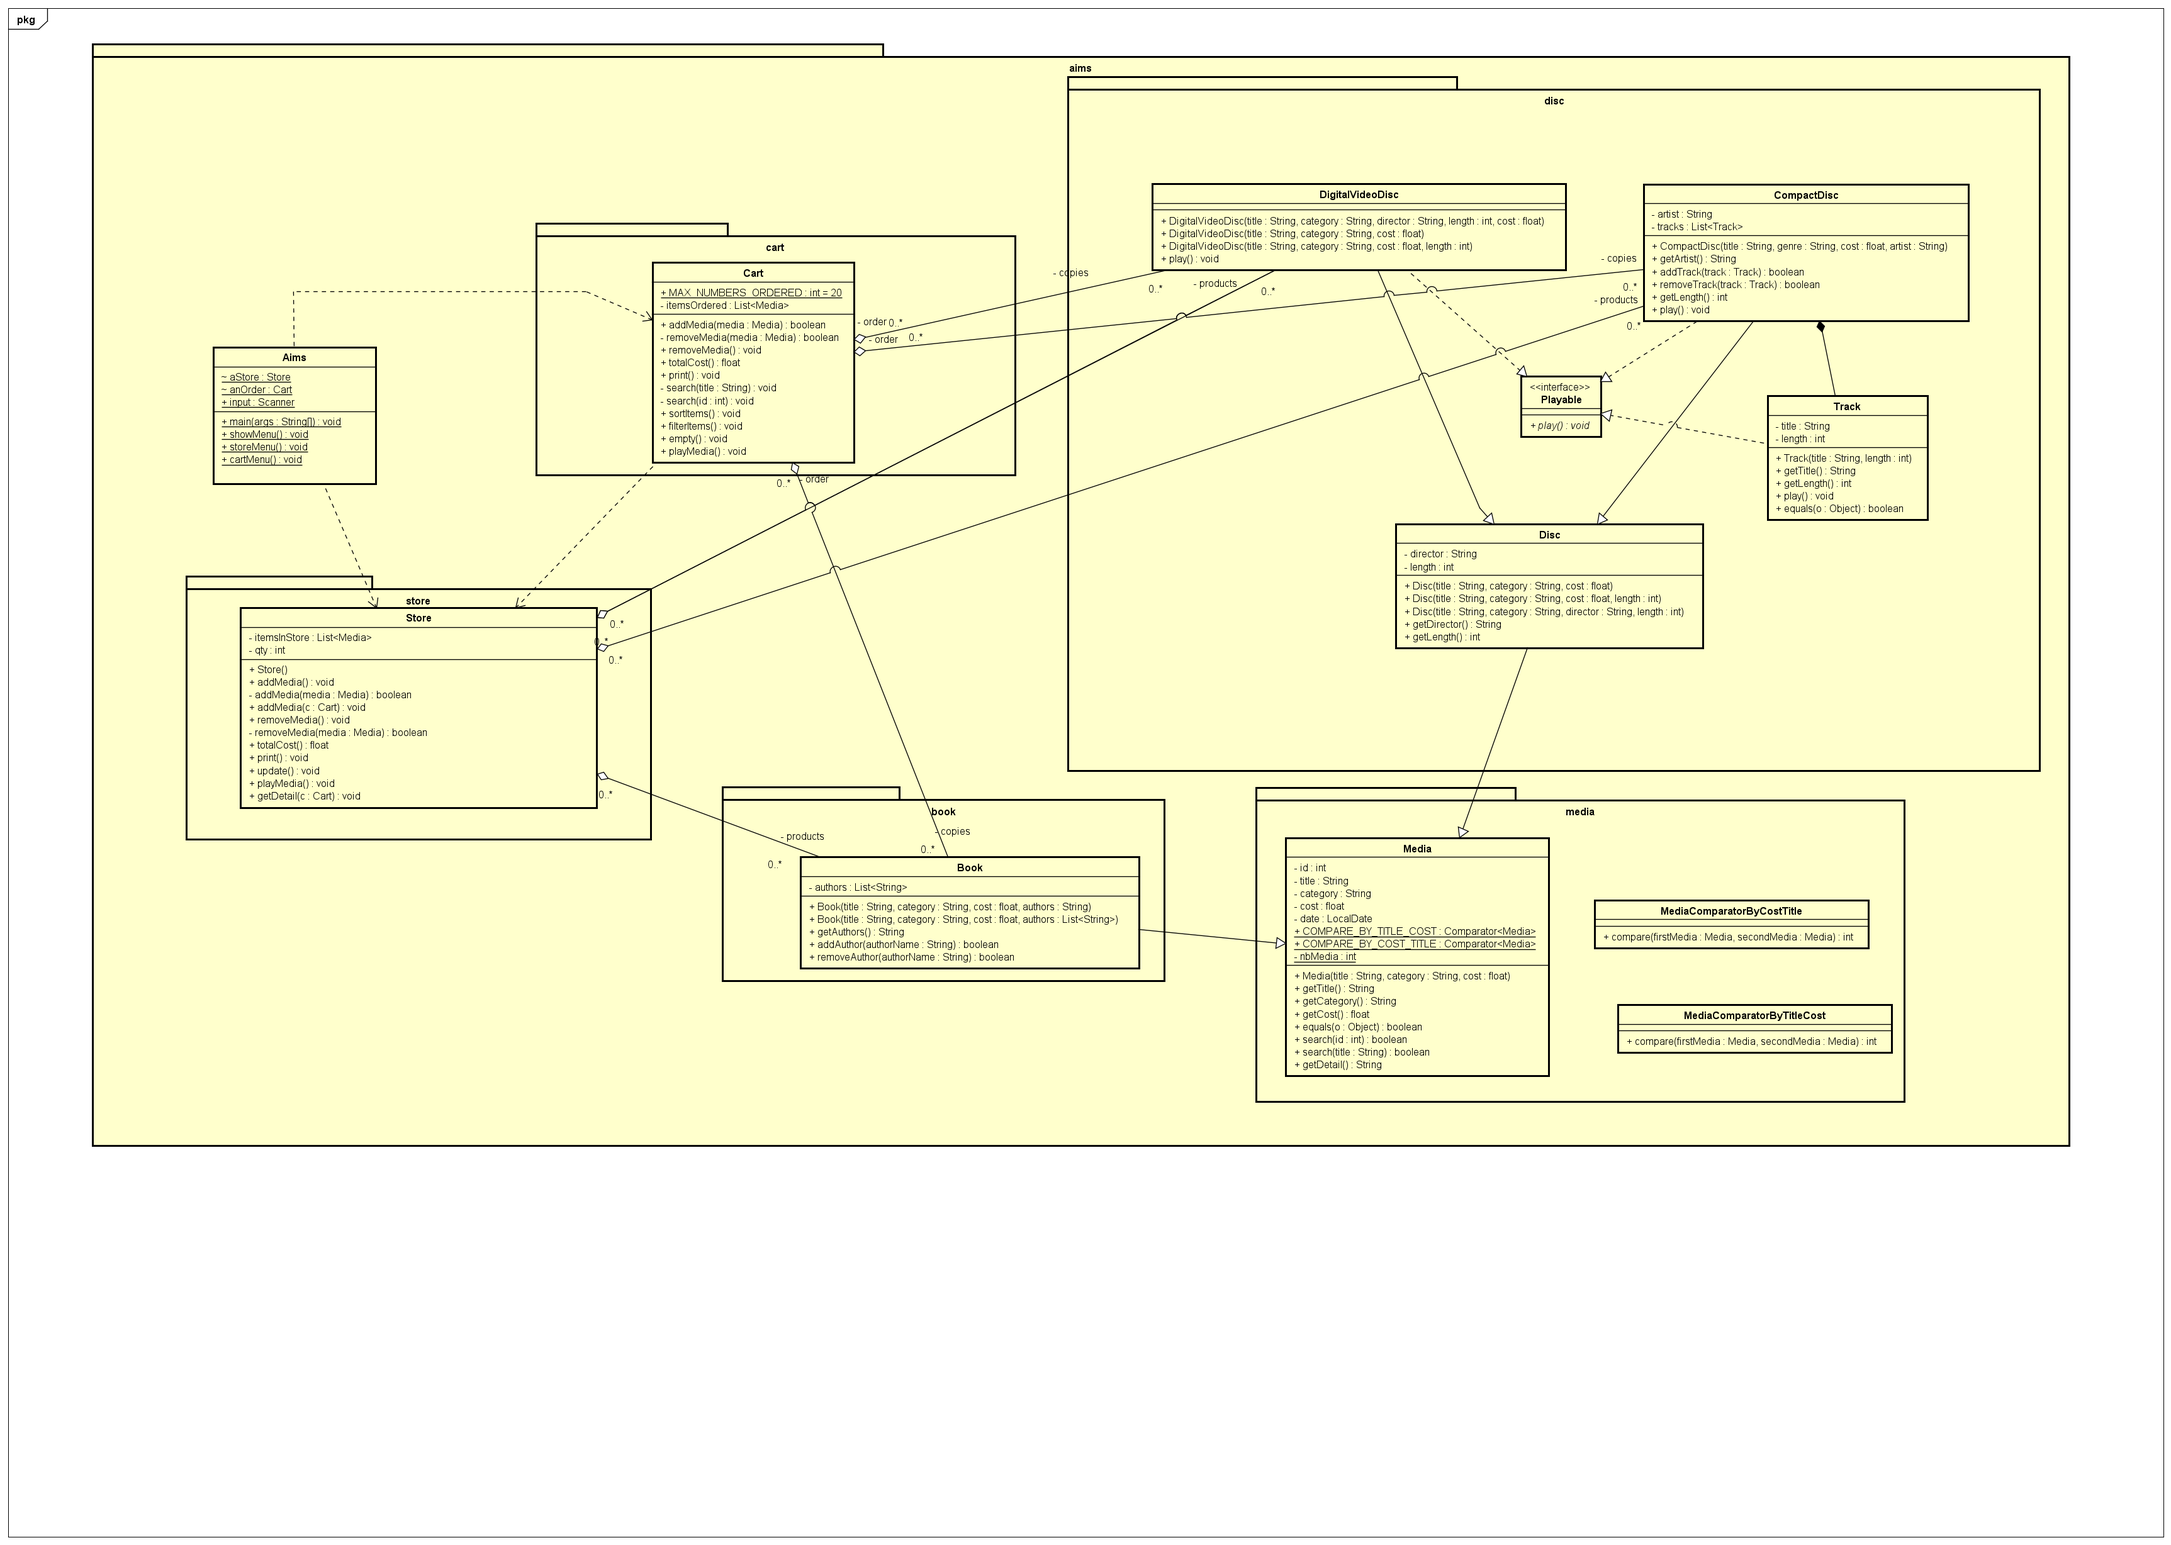
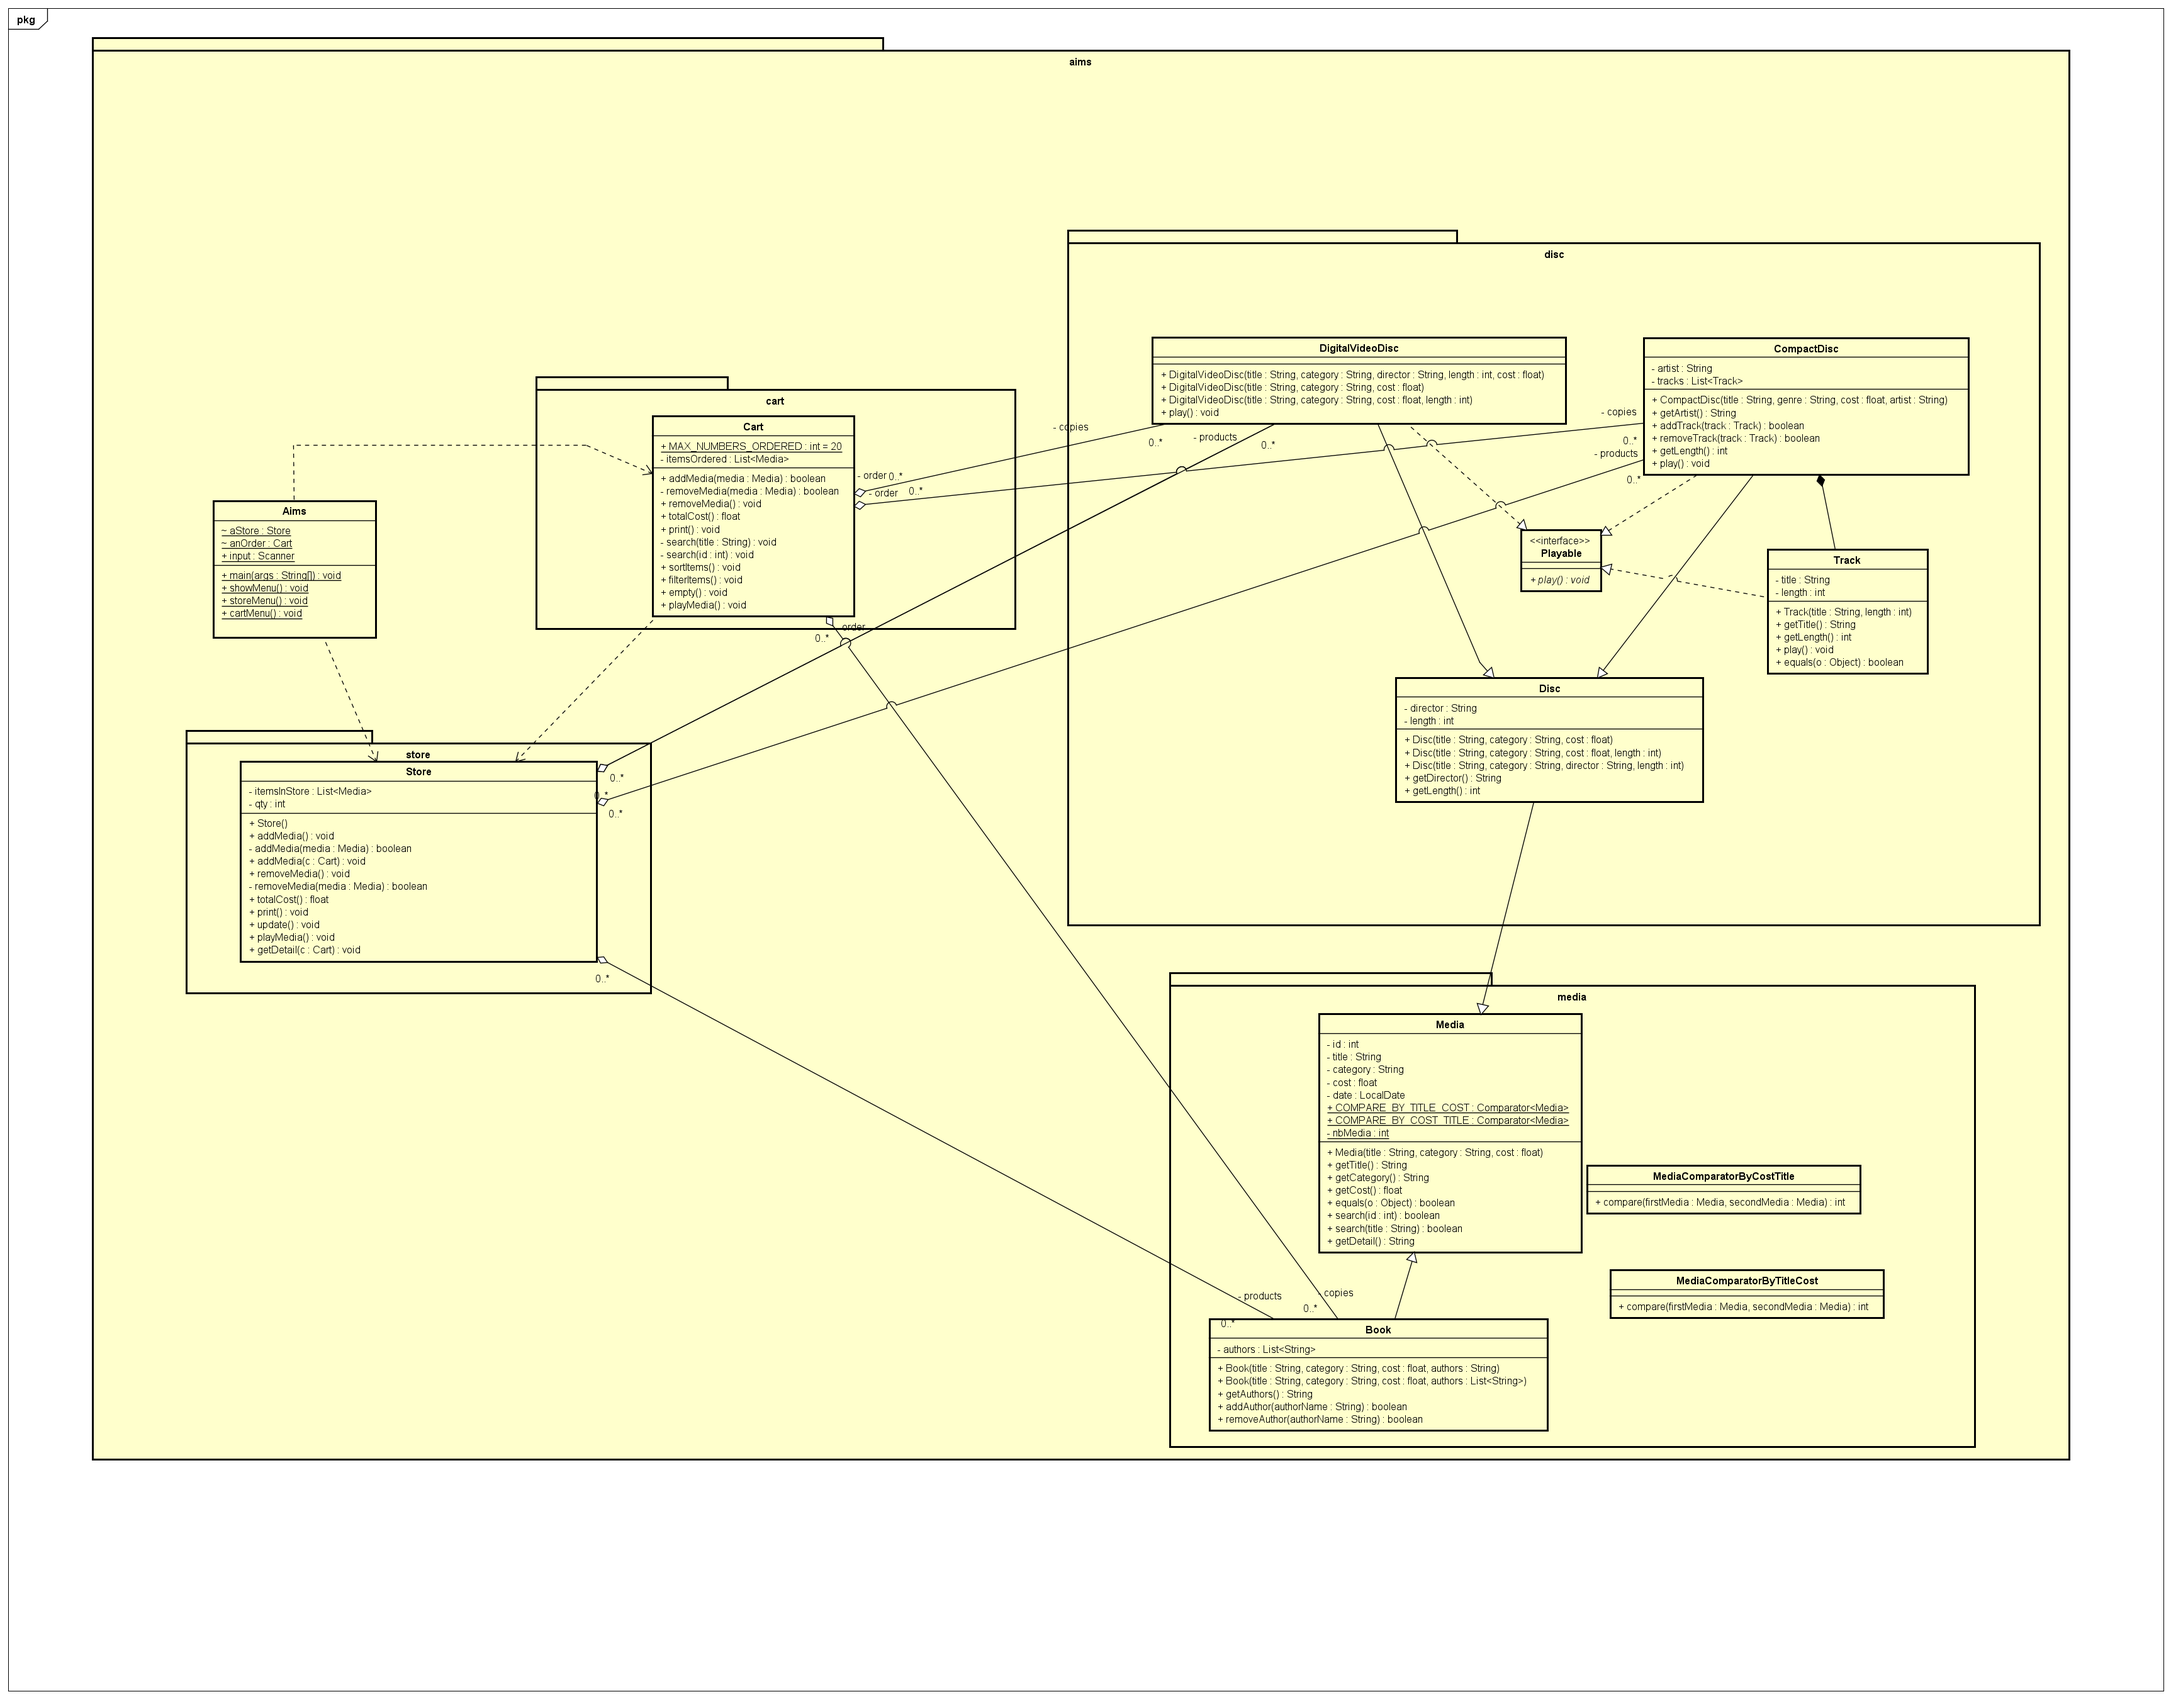
emergency package structure change

diff --git a/AimsProject/src/hust/soict/cybersec/aims/cart/Cart.java b/AimsProject/src/hust/soict/cybersec/aims/cart/Cart.java
@@ -42,7 +42,7 @@ public class Cart {
     }
 
     public void removeMedia() {
-		Scanner input = new Scanner(System.in);
+        Scanner input = new Scanner(System.in);
         
         System.out.println("Please enter the media name you want to remove");
         String title = input.nextLine();

diff --git a/AimsProject/src/hust/soict/cybersec/aims/media/Book.java b/AimsProject/src/hust/soict/cybersec/aims/media/Book.java
@@ -1,7 +1,6 @@
-package hust.soict.cybersec.aims.book;
+package hust.soict.cybersec.aims.media;
 
 import java.util.*;
-import hust.soict.cybersec.aims.media.*;
 
 public class Book extends Media {
     private List<String> authors = new ArrayList<String>() ;

diff --git a/AimsProject/src/hust/soict/cybersec/aims/media/Media.java b/AimsProject/src/hust/soict/cybersec/aims/media/Media.java
@@ -4,7 +4,6 @@ import java.time.LocalDate;
 import java.util.Comparator;
 
 import hust.soict.cybersec.aims.disc.*;
-import hust.soict.cybersec.aims.book.*;
 
 public abstract class Media {
     private static int nbMedia = 0;

diff --git a/AimsProject/src/hust/soict/cybersec/aims/store/Store.java b/AimsProject/src/hust/soict/cybersec/aims/store/Store.java
@@ -1,6 +1,5 @@
 package hust.soict.cybersec.aims.store;
 
-import hust.soict.cybersec.aims.book.Book;
 import hust.soict.cybersec.aims.cart.*;
 import hust.soict.cybersec.aims.disc.*;
 import hust.soict.cybersec.aims.media.*;

diff --git a/AimsProject/src/hust/soict/cybersec/test/media/MediaTest.java b/AimsProject/src/hust/soict/cybersec/test/media/MediaTest.java
@@ -2,7 +2,6 @@ package hust.soict.cybersec.test.media;
 
 import hust.soict.cybersec.aims.media.*;
 import hust.soict.cybersec.aims.disc.*;
-import hust.soict.cybersec.aims.book.*;
 import java.util.*;
 
 
